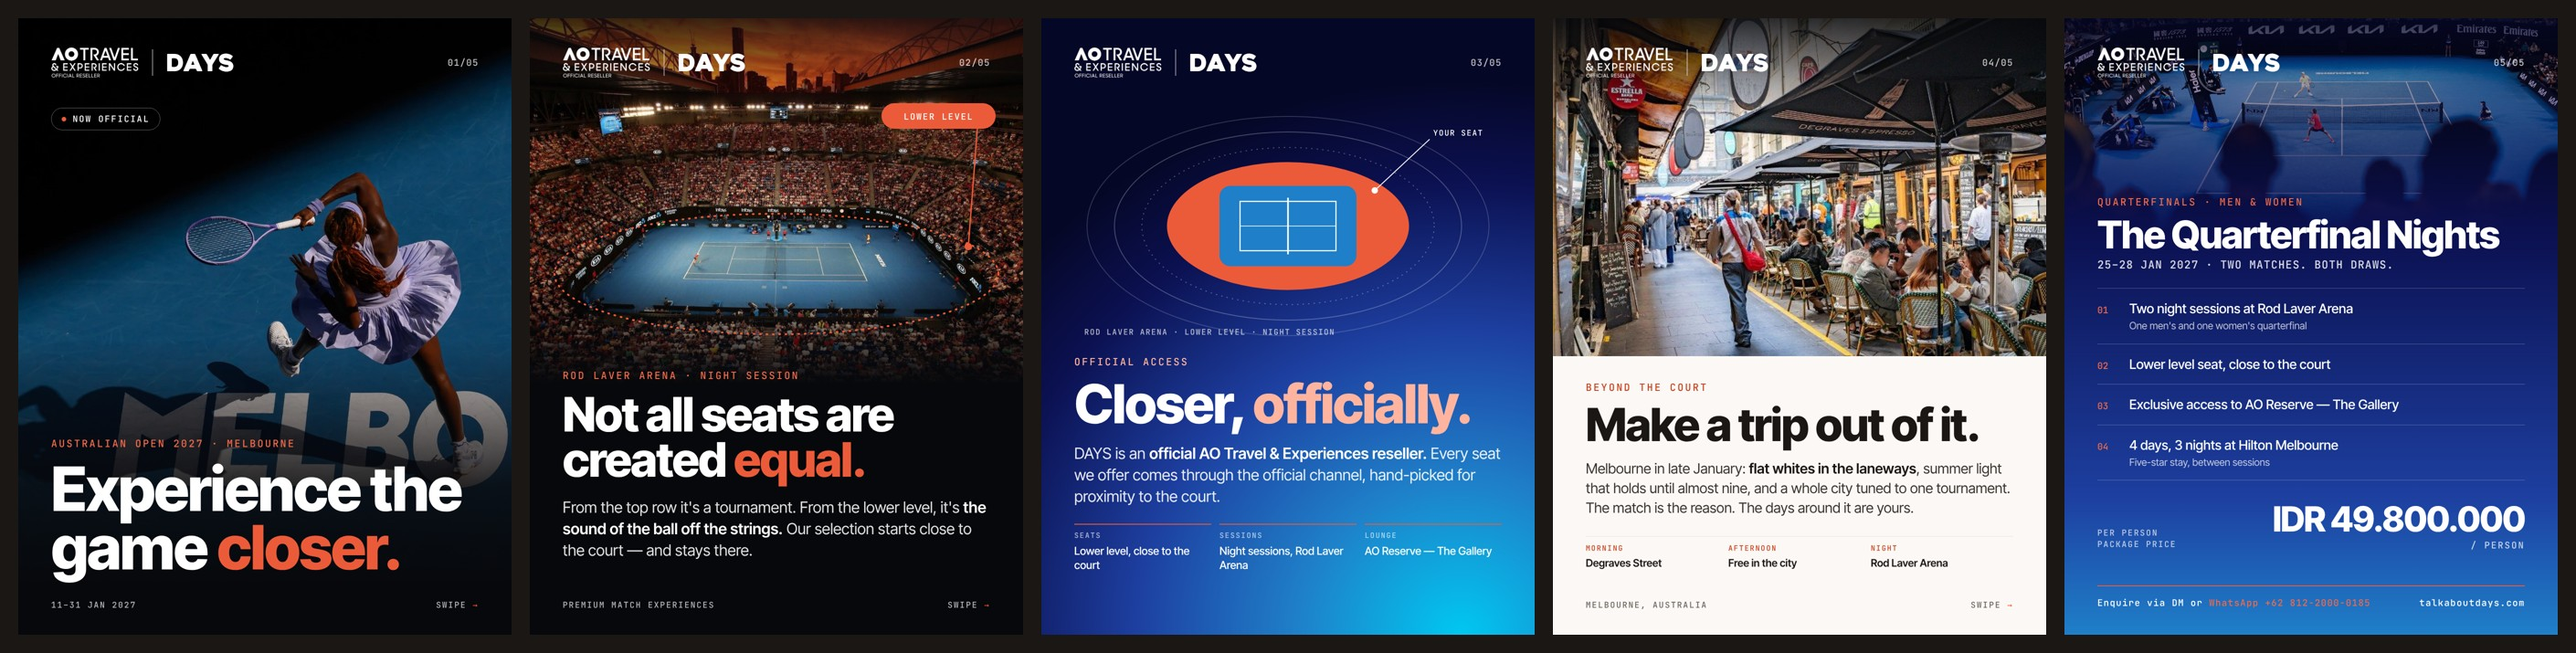
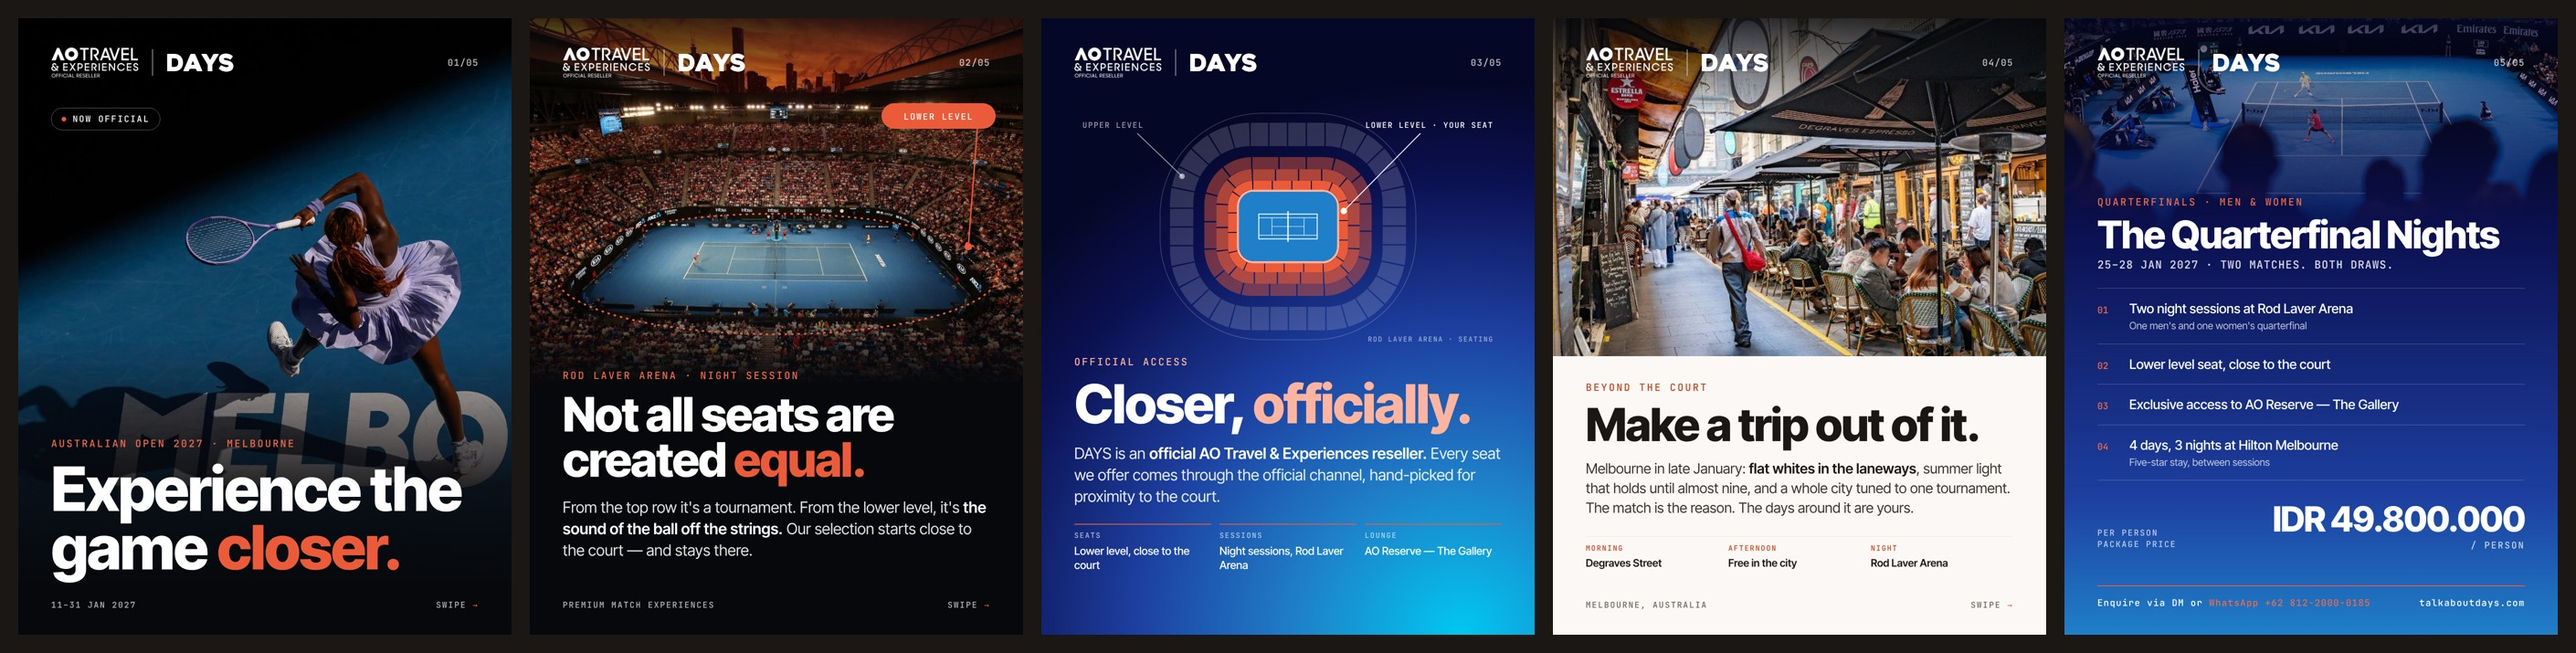
Redraw AO 2027 slide 3 seating diagram from the official Rod Laver Arena map
Claude-Session: https://claude.ai/code/session_01Eb5aT3tpEevDBBbf6MCDFd

Changed region(s): [[0.4369, 0.1846, 0.5929, 0.5231]]

diff --git a/social/ao-2027/slides.html b/social/ao-2027/slides.html
@@ -54,7 +54,7 @@ h1,h2{font-weight:800;letter-spacing:-.025em;line-height:.95}
 
 /* ---------- 03 access ---------- */
 .s3{background:radial-gradient(120% 90% at 85% 100%,var(--ao-cyan) 0,var(--ao-court) 28%,var(--ao-mid) 55%,var(--ao-deep) 82%,#050726 100%)}
-.s3 .map{position:absolute;left:50%;top:205px;transform:translateX(-50%)}
+.s3 .map{position:absolute;left:50%;top:196px;transform:translateX(-50%)}
 .s3 .copy{position:absolute;left:72px;right:72px;top:740px}
 .s3 h2{font-size:118px;margin:22px 0 30px}
 .s3 .lede{color:rgba(255,255,255,.9)}
@@ -132,22 +132,25 @@ h1,h2{font-weight:800;letter-spacing:-.025em;line-height:.95}
 <!-- 03 — The access -->
 <section class="slide s3">
   <header class="hdr"><img class="ao" src="img/ao-lockup-white.png" alt=""><span class="rule"></span><img class="days" src="img/days-wordmark.png" alt="DAYS"><span class="n">03/05</span></header>
-  <svg class="map" width="900" height="500" viewBox="0 0 900 500" aria-hidden="true">
-    <!-- stylised bowl: upper tiers -->
-    <ellipse cx="450" cy="250" rx="440" ry="240" fill="none" stroke="rgba(255,255,255,.18)" stroke-width="2"/>
-    <ellipse cx="450" cy="250" rx="380" ry="206" fill="none" stroke="rgba(255,255,255,.26)" stroke-width="2"/>
-    <ellipse cx="450" cy="250" rx="320" ry="172" fill="none" stroke="rgba(255,255,255,.32)" stroke-width="2" stroke-dasharray="3 9"/>
-    <!-- lower level highlighted -->
-    <ellipse cx="450" cy="250" rx="265" ry="140" fill="#EC5B39"/>
-    <!-- court -->
-    <rect x="300" y="162" width="300" height="176" rx="24" fill="#1F7FC9"/>
-    <rect x="345" y="196" width="210" height="108" fill="none" stroke="#fff" stroke-width="2.5"/>
-    <line x1="345" y1="250" x2="555" y2="250" stroke="#fff" stroke-width="1.5"/>
-    <line x1="450" y1="188" x2="450" y2="312" stroke="#fff" stroke-width="3.5"/>
-    <!-- labels -->
-    <line x1="640" y1="172" x2="760" y2="60" stroke="#fff" stroke-width="2"/><circle cx="640" cy="172" r="7" fill="#fff"/>
-    <text x="768" y="52" font-family="JetBrains Mono" font-weight="500" font-size="17" letter-spacing="2" fill="#fff">YOUR SEAT</text>
-    <text x="4" y="488" font-family="JetBrains Mono" font-weight="500" font-size="17" letter-spacing="2" fill="rgba(255,255,255,.7)">ROD LAVER ARENA · LOWER LEVEL · NIGHT SESSION</text>
+  <svg class="map" width="900" height="520" viewBox="0 0 900 520" aria-hidden="true">
+    <g transform="translate(450 260) scale(.8)">
+      <rect x="-350" y="-310" width="700" height="620" rx="280" fill="none" stroke="rgba(255,255,255,.22)" stroke-width="2"/>
+      <rect x="-291.0" y="-252.0" width="582" height="504" rx="189" fill="none" stroke="rgba(255,255,255,.16)" stroke-width="64" pathLength="36" stroke-dasharray="0.93 0.07"/>
+      <rect x="-212.5" y="-173.5" width="425.0" height="347.0" rx="115" fill="none" stroke="rgba(236,91,57,.45)" stroke-width="33" pathLength="18" stroke-dasharray="0.95 0.05"/>
+      <rect x="-180.0" y="-141.0" width="360" height="282" rx="84" fill="none" stroke="rgba(236,91,57,.72)" stroke-width="32" pathLength="18" stroke-dasharray="0.95 0.05"/>
+      <rect x="-152.0" y="-113.0" width="304" height="226" rx="57" fill="none" stroke="#EC5B39" stroke-width="24" pathLength="18" stroke-dasharray="0.95 0.05"/>
+      <rect x="-137.0" y="-98.0" width="274" height="196" rx="43" fill="none" stroke="#FFB49F" stroke-width="6" pathLength="18" stroke-dasharray="1 0"/>
+      <rect x="-134" y="-95" width="268" height="190" rx="40" fill="#1F7FC9"/>
+      <rect x="-80" y="-34" width="160" height="68" fill="none" stroke="#fff" stroke-width="2.5"/>
+      <line x1="-80" y1="-24" x2="80" y2="-24" stroke="#fff" stroke-width="1.5"/><line x1="-80" y1="24" x2="80" y2="24" stroke="#fff" stroke-width="1.5"/>
+      <line x1="-44" y1="-24" x2="-44" y2="24" stroke="#fff" stroke-width="1.5"/><line x1="44" y1="-24" x2="44" y2="24" stroke="#fff" stroke-width="1.5"/><line x1="-44" y1="0" x2="44" y2="0" stroke="#fff" stroke-width="1.5"/>
+      <line x1="0" y1="-42" x2="0" y2="42" stroke="#fff" stroke-width="3.5"/>
+    </g>
+    <line x1="572" y1="226" x2="740" y2="56" stroke="#fff" stroke-width="2"/><circle cx="572" cy="226" r="7" fill="#fff"/>
+    <text x="900" y="44" text-anchor="end" font-family="JetBrains Mono" font-weight="500" font-size="17" letter-spacing="2" fill="#fff">LOWER LEVEL · YOUR SEAT</text>
+    <line x1="218" y1="150" x2="120" y2="56" stroke="rgba(255,255,255,.6)" stroke-width="2"/><circle cx="218" cy="150" r="6" fill="rgba(255,255,255,.6)"/>
+    <text x="0" y="44" font-family="JetBrains Mono" font-weight="500" font-size="17" letter-spacing="2" fill="rgba(255,255,255,.6)">UPPER LEVEL</text>
+    <text x="900" y="512" text-anchor="end" font-family="JetBrains Mono" font-weight="500" font-size="15" letter-spacing="2" fill="rgba(255,255,255,.55)">ROD LAVER ARENA · SEATING</text>
   </svg>
   <div class="copy">
     <p class="eyebrow" style="color:#FFB49F">Official access</p>
